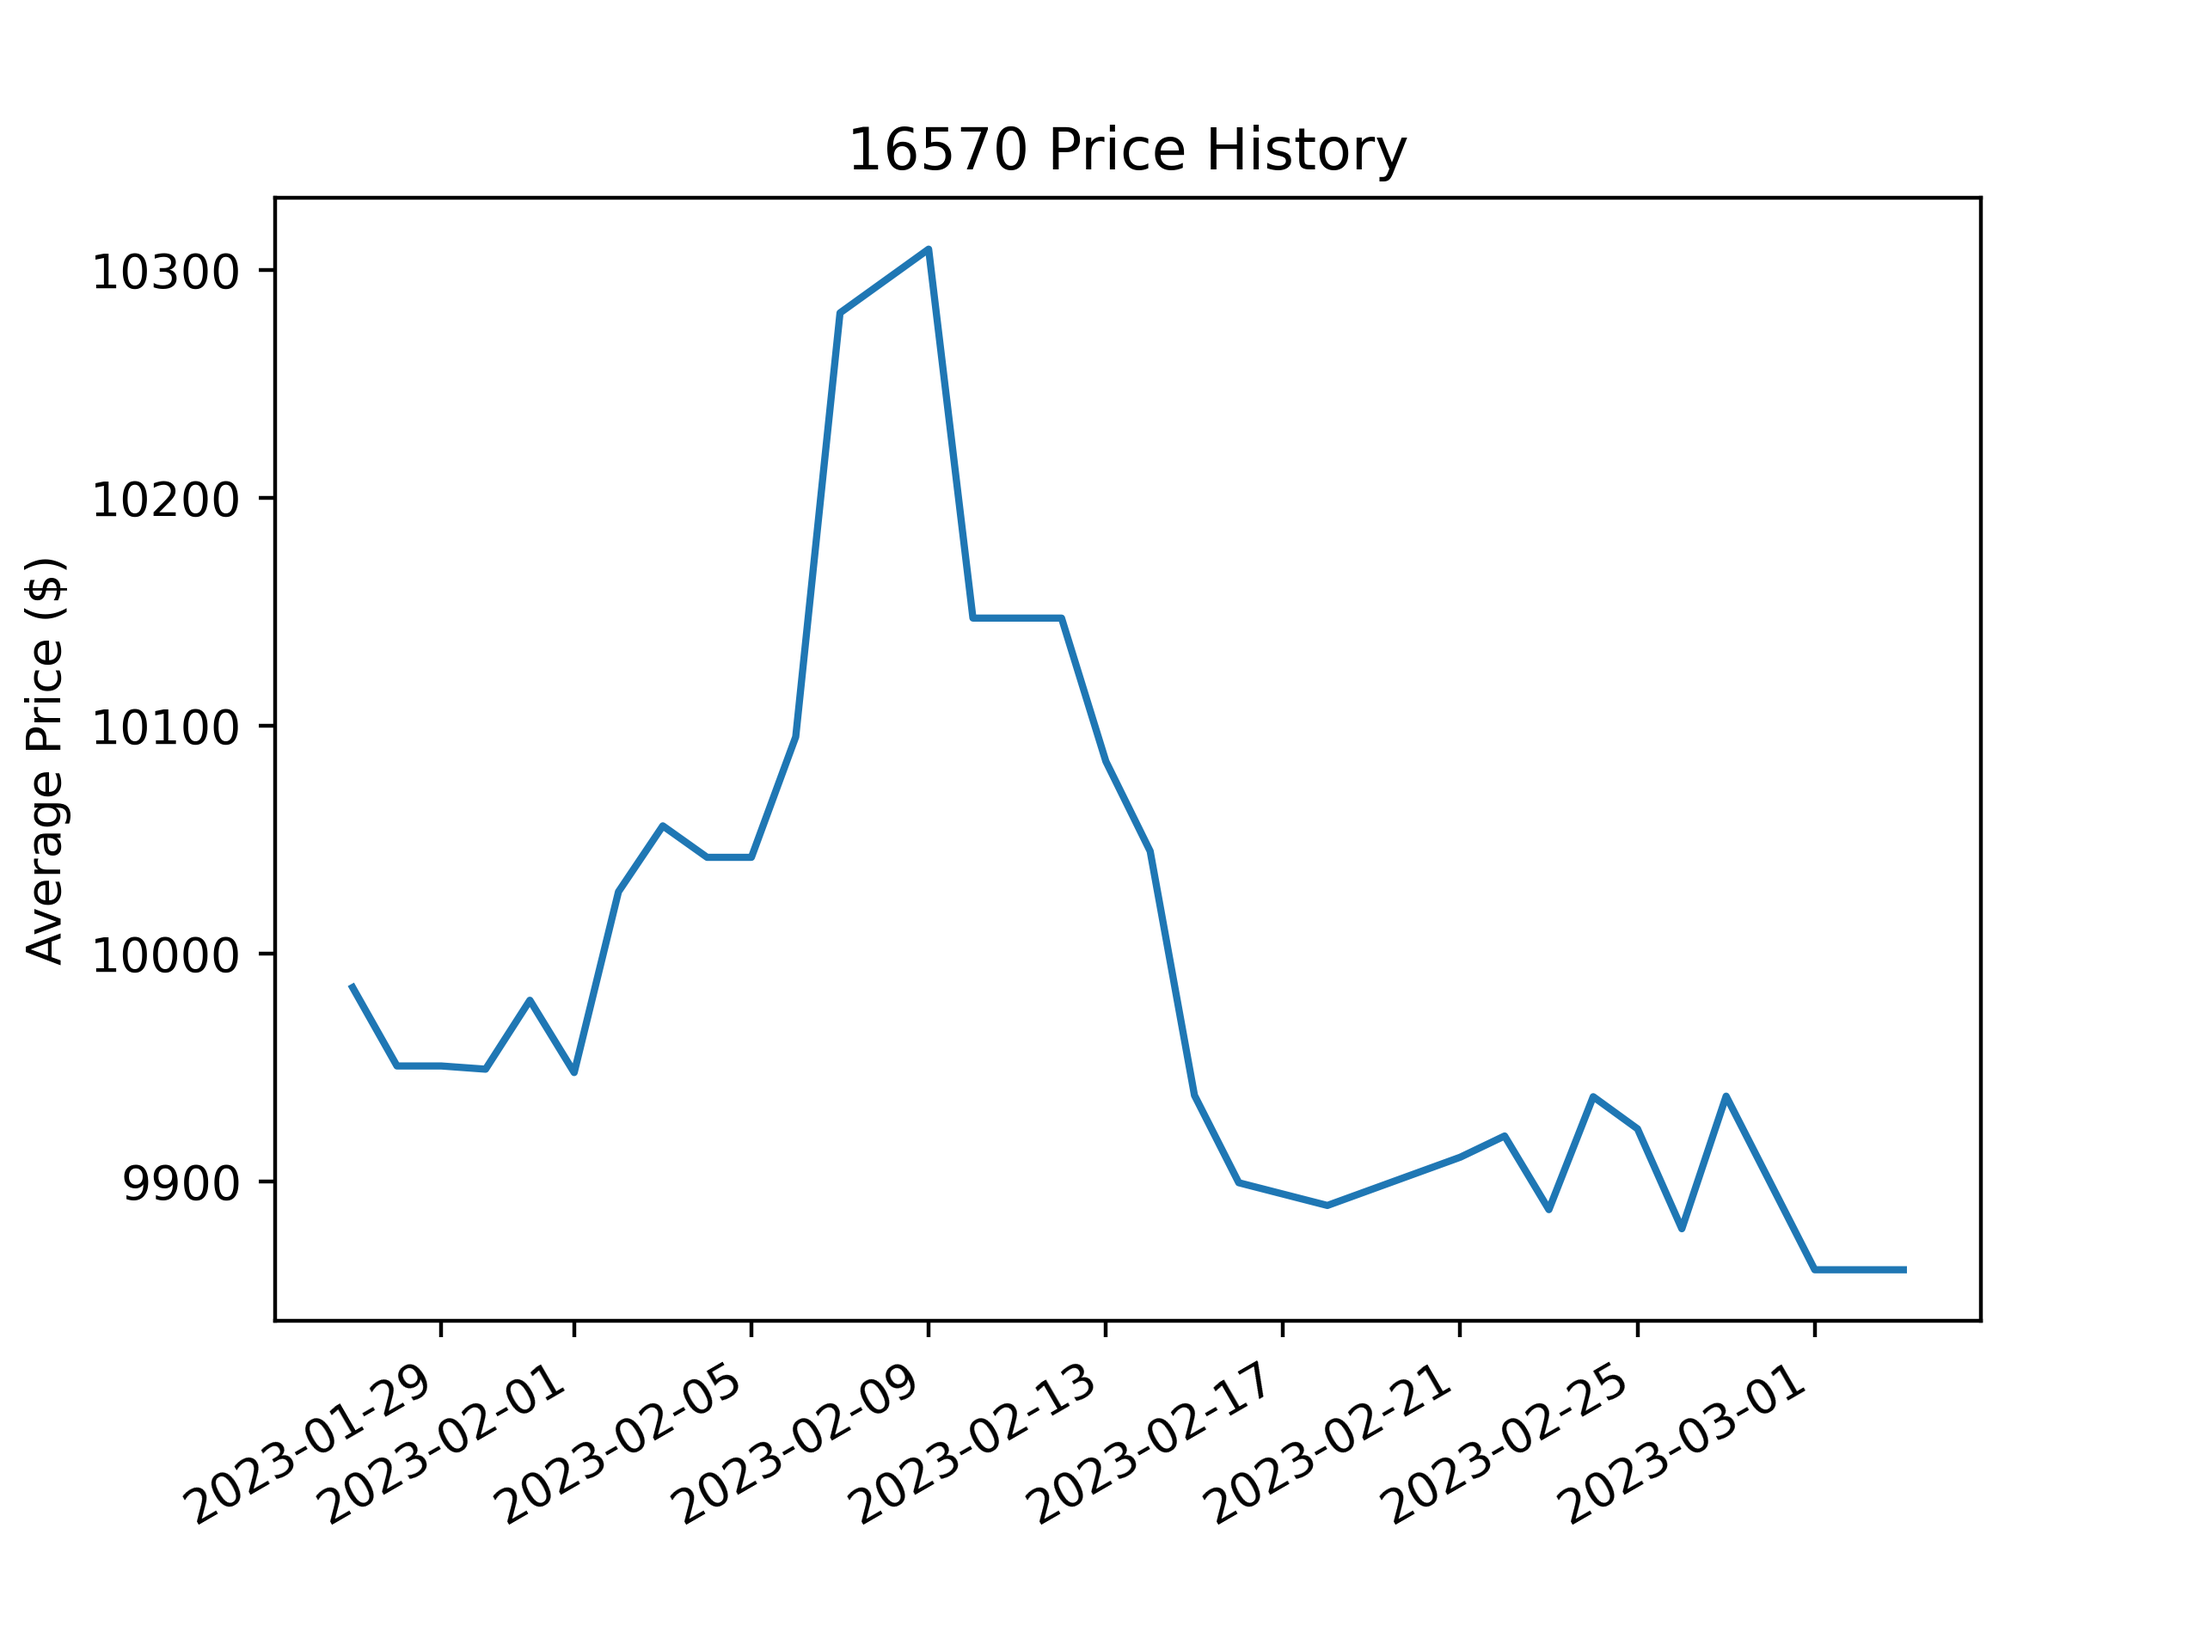
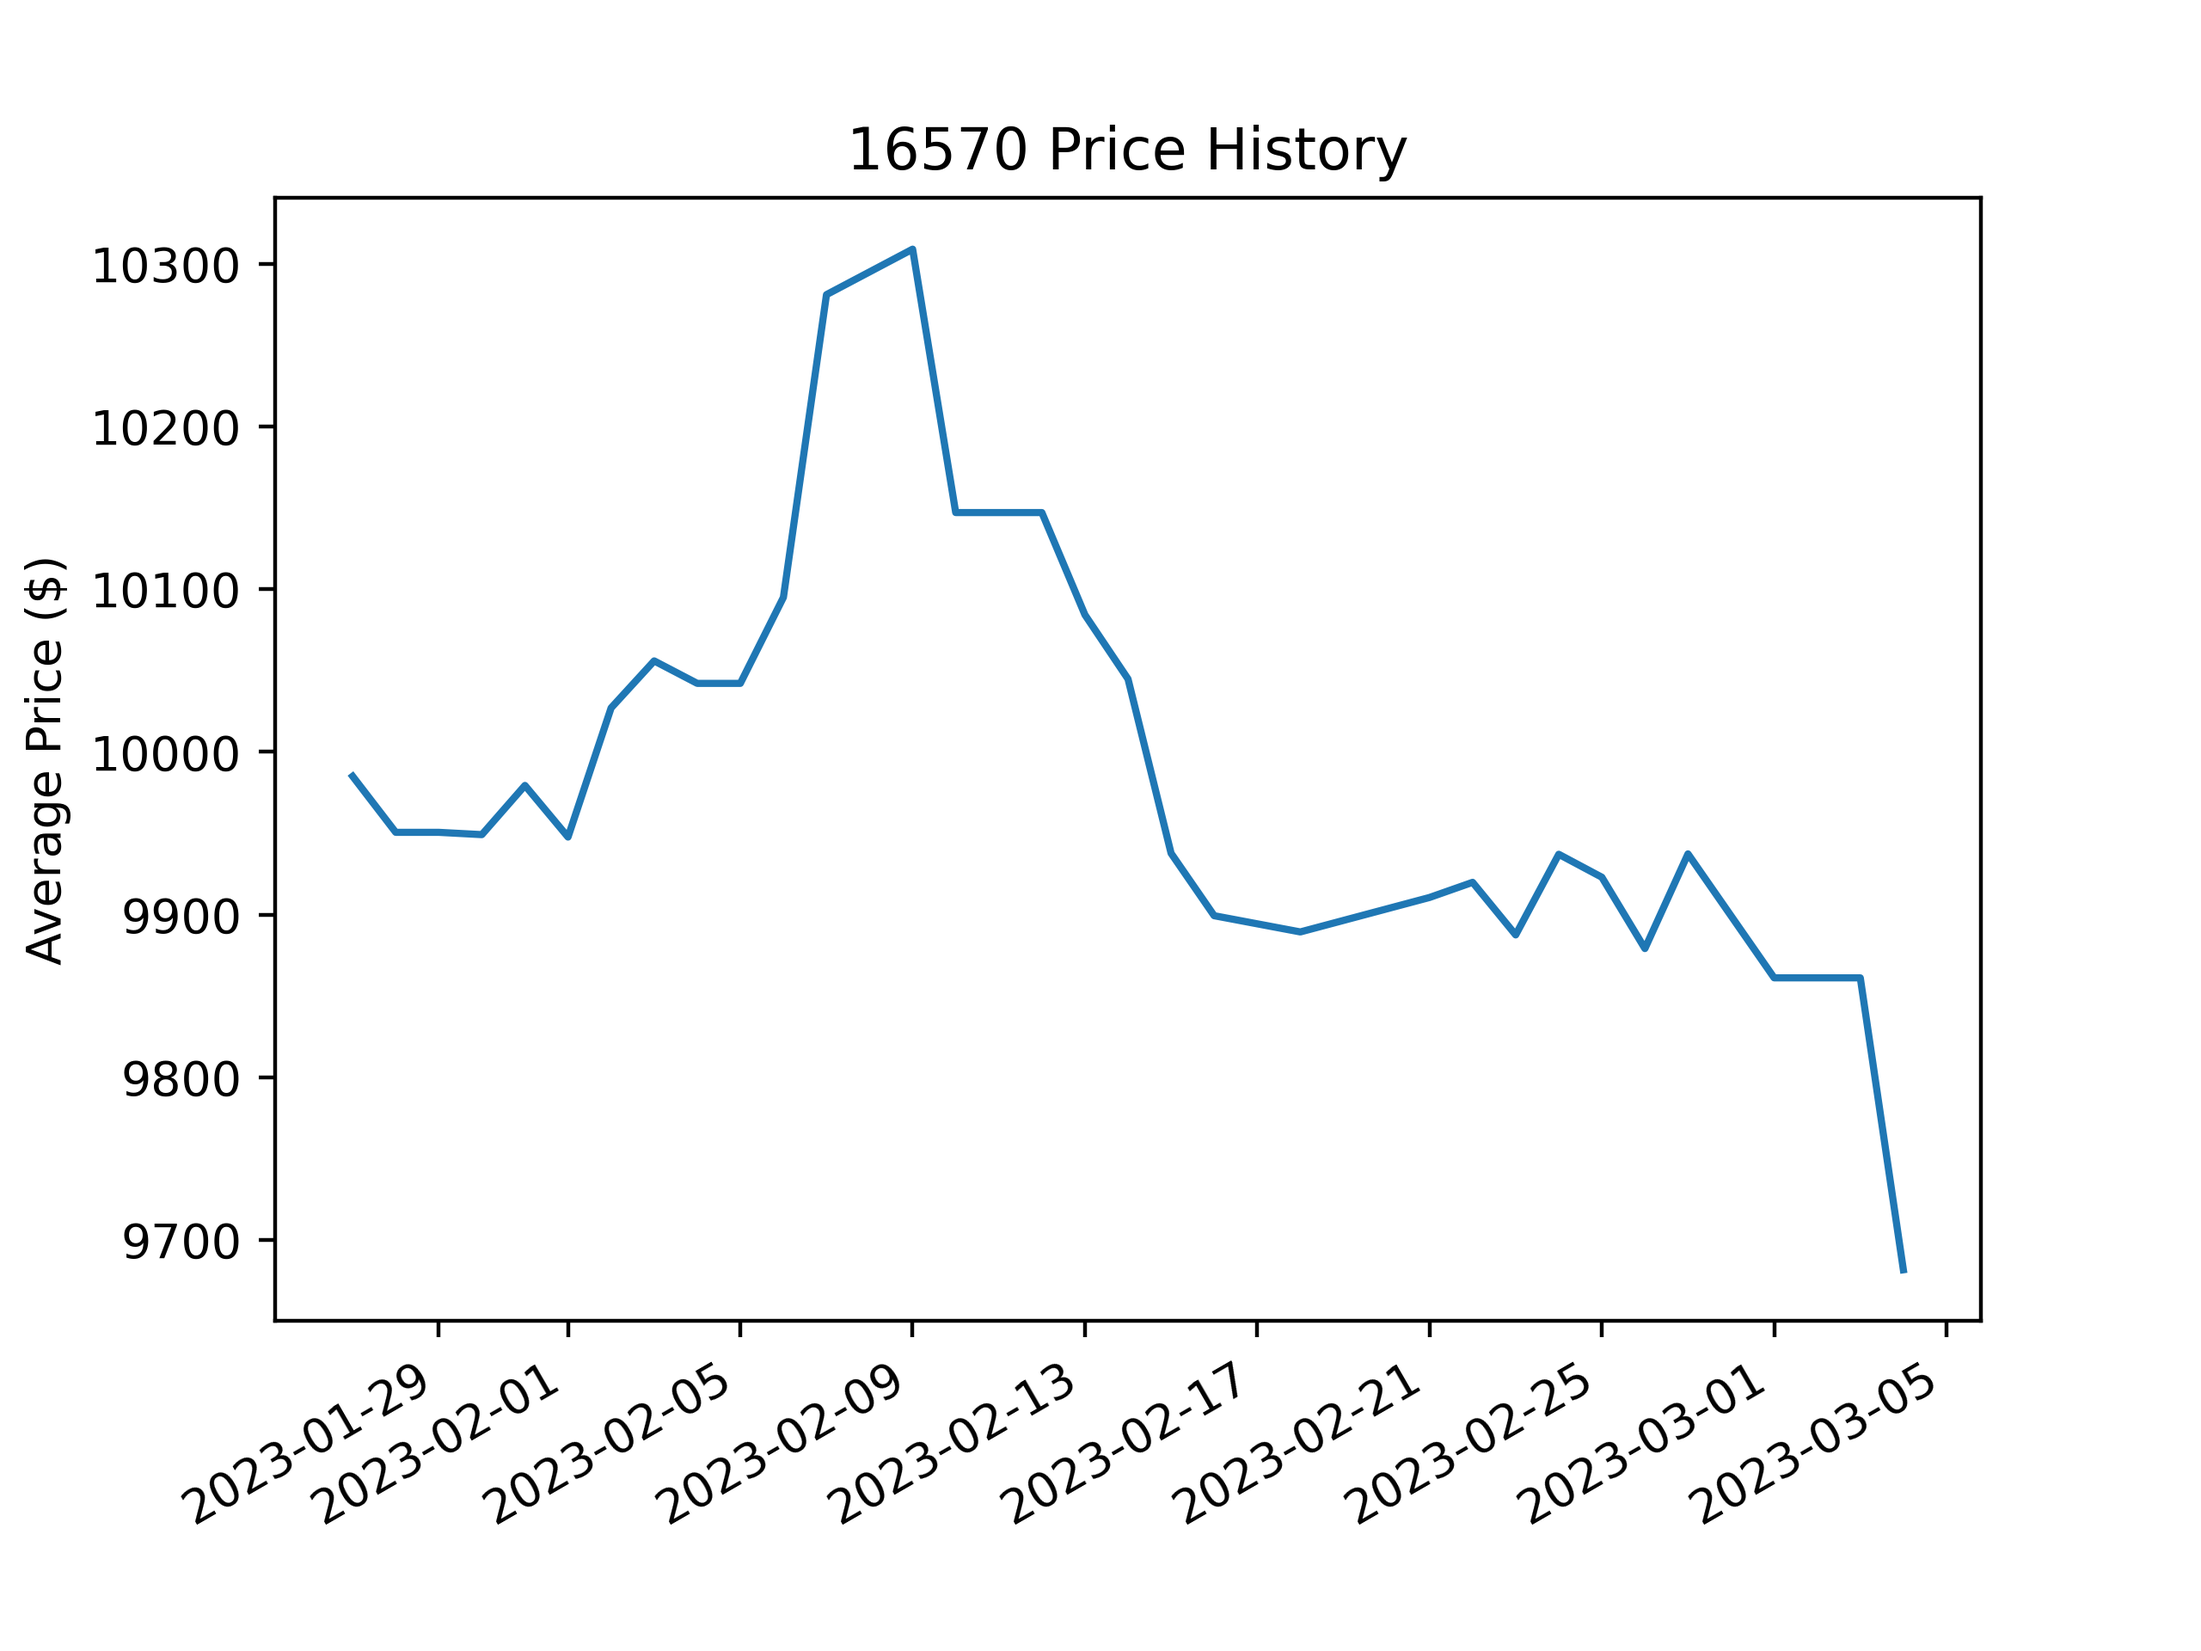
today's prices

diff --git a/all-prices/16570.html b/all-prices/16570.html
@@ -1,1 +1,1 @@
-<!DOCTYPE html><html><body><h1>All listings sorted in ascending order by price</h1><div> <a href="https://www.crownandcaliber.com/products/rolex-explorer-ii-16570-10-10-rol-s1rugm" target="_blank" rel="noopener noreferrer">$8275</a> </div><div> <a href="https://www.bobswatches.com//rolex-explorer-ii-16570-polar-dial.html" target="_blank" rel="noopener noreferrer">$8695</a> </div><div> <a href="https://www.watchfinder.com/Rolex/Explorer II/16570/1780/item/230008" target="_blank" rel="noopener noreferrer">$8765</a> </div><div> <a href="https://www.watchfinder.com/Rolex/Explorer II/16570/1780/item/236074" target="_blank" rel="noopener noreferrer">$8885</a> </div><div> <a href="https://www.watchfinder.com/Rolex/Explorer II/16570/1780/item/230573" target="_blank" rel="noopener noreferrer">$8910</a> </div><div> <a href="https://www.thewatchbox.com/shop/4777322.html" target="_blank" rel="noopener noreferrer">$8950</a> </div><div> <a href="https://www.crownandcaliber.com/products/rolex-explorer-ii-16570-10-10-rol-be483x" target="_blank" rel="noopener noreferrer">$9000</a> </div><div> <a href="https://www.crownandcaliber.com/products/rolex-explorer-ii-16570-10-10-rol-t6d7yb" target="_blank" rel="noopener noreferrer">$9000</a> </div><div> <a href="https://www.watchfinder.com/Rolex/Explorer II/16570/1780/item/232242" target="_blank" rel="noopener noreferrer">$9050</a> </div><div> <a href="https://www.crownandcaliber.com/products/rolex-explorer-ii-16570-10-10-rol-rcg6ap" target="_blank" rel="noopener noreferrer">$9150</a> </div><div> <a href="https://www.thewatchbox.com/shop/4652947.html" target="_blank" rel="noopener noreferrer">$9450</a> </div><div> <a href="https://www.crownandcaliber.com/products/rolex-explorer-ii-16570-10-10-rol-40mq2n" target="_blank" rel="noopener noreferrer">$9600</a> </div><div> <a href="https://aiswatches.com/rolex-polar-explorer-ii-16570-p-serial-white-dial-box-papers-rsc-serviced/" target="_blank" rel="noopener noreferrer">$9775.0</a> </div><div> <a href="https://aiswatches.com/rolex-polar-explorer-ii-16570-y-serial-white-dial-box-paper-1/" target="_blank" rel="noopener noreferrer">$9775.0</a> </div><div> <a href="https://www.watchfinder.com/Rolex/Explorer II/16570/1780/item/231382" target="_blank" rel="noopener noreferrer">$9830</a> </div><div> <a href="https://mandbwatches.com/product/rolex-explorer-ii-40mm-16570-stainless-steel-polar-white-dial-w-papers-unpolished/" target="_blank" rel="noopener noreferrer">$9950.0</a> </div><div> <a href="https://www.watchfinder.com/Rolex/Explorer II/16570/1780/item/233065" target="_blank" rel="noopener noreferrer">$10175</a> </div><div> <a href="https://www.watchfinder.com/Rolex/Explorer II/16570/1780/item/240103" target="_blank" rel="noopener noreferrer">$10310</a> </div><div> <a href="https://www.watchfinder.com/Rolex/Explorer II/16570/1780/item/230050" target="_blank" rel="noopener noreferrer">$10320</a> </div><div> <a href="https://www.watchfinder.com/Rolex/Explorer II/16570/1780/item/239520" target="_blank" rel="noopener noreferrer">$10660</a> </div><div> <a href="https://www.watchfinder.com/Rolex/Explorer II/16570/1780/item/216068" target="_blank" rel="noopener noreferrer">$10660</a> </div><div> <a href="https://www.watchfinder.com/Rolex/Explorer II/16570/1780/item/231123" target="_blank" rel="noopener noreferrer">$10690</a> </div><div> <a href="https://www.watchfinder.com/Rolex/Explorer II/16570/1780/item/235967" target="_blank" rel="noopener noreferrer">$10855</a> </div><div> <a href="https://www.bobswatches.com//rolex-explorer-ii-16570-white-dial-watch.html" target="_blank" rel="noopener noreferrer">$10895</a> </div><div> <a href="https://aiswatches.com/rolex-polar-explorer-ii-16570-v-serial-white-dial-3186-movement-box-papers/" target="_blank" rel="noopener noreferrer">$10975.0</a> </div><div> <a href="https://aiswatches.com/rolex-polar-explorer-ii-16570-m-serial-white-dial-3186-movement-box-papers/" target="_blank" rel="noopener noreferrer">$10975.0</a> </div><div> <a href="https://davidsw.com/shop/watch/rolex/rolex-16570-explorer-ii-with-white-dial-86/" target="_blank" rel="noopener noreferrer">$12675.0</a> </div></body></html>
+<!DOCTYPE html><html><body><h1>All listings sorted in ascending order by price</h1><div> <a href="https://www.crownandcaliber.com/products/rolex-explorer-ii-16570-10-10-rol-s1rugm" target="_blank" rel="noopener noreferrer">$8275</a> </div><div> <a href="https://www.bobswatches.com//rolex-explorer-ii-16570-polar-dial.html" target="_blank" rel="noopener noreferrer">$8695</a> </div><div> <a href="https://www.watchfinder.com/Rolex/Explorer II/16570/1780/item/230008" target="_blank" rel="noopener noreferrer">$8765</a> </div><div> <a href="https://www.watchfinder.com/Rolex/Explorer II/16570/1780/item/236074" target="_blank" rel="noopener noreferrer">$8885</a> </div><div> <a href="https://www.watchfinder.com/Rolex/Explorer II/16570/1780/item/230573" target="_blank" rel="noopener noreferrer">$8910</a> </div><div> <a href="https://www.thewatchbox.com/shop/4777322.html" target="_blank" rel="noopener noreferrer">$8950</a> </div><div> <a href="https://www.crownandcaliber.com/products/rolex-explorer-ii-16570-10-10-rol-be483x" target="_blank" rel="noopener noreferrer">$9000</a> </div><div> <a href="https://www.crownandcaliber.com/products/rolex-explorer-ii-16570-10-10-rol-t6d7yb" target="_blank" rel="noopener noreferrer">$9000</a> </div><div> <a href="https://www.watchfinder.com/Rolex/Explorer II/16570/1780/item/232242" target="_blank" rel="noopener noreferrer">$9050</a> </div><div> <a href="https://www.crownandcaliber.com/products/rolex-explorer-ii-16570-10-10-rol-rcg6ap" target="_blank" rel="noopener noreferrer">$9150</a> </div><div> <a href="https://www.thewatchbox.com/shop/4652947.html" target="_blank" rel="noopener noreferrer">$9450</a> </div><div> <a href="https://www.crownandcaliber.com/products/rolex-explorer-ii-16570-10-10-rol-40mq2n" target="_blank" rel="noopener noreferrer">$9600</a> </div><div> <a href="https://aiswatches.com/rolex-polar-explorer-ii-16570-p-serial-white-dial-box-papers-rsc-serviced/" target="_blank" rel="noopener noreferrer">$9775.0</a> </div><div> <a href="https://aiswatches.com/rolex-polar-explorer-ii-16570-y-serial-white-dial-box-paper-1/" target="_blank" rel="noopener noreferrer">$9775.0</a> </div><div> <a href="https://www.watchfinder.com/Rolex/Explorer II/16570/1780/item/231382" target="_blank" rel="noopener noreferrer">$9830</a> </div><div> <a href="https://mandbwatches.com/product/rolex-explorer-ii-40mm-16570-stainless-steel-polar-white-dial-w-papers-unpolished/" target="_blank" rel="noopener noreferrer">$9950.0</a> </div><div> <a href="https://www.watchfinder.com/Rolex/Explorer II/16570/1780/item/233065" target="_blank" rel="noopener noreferrer">$10175</a> </div><div> <a href="https://www.watchfinder.com/Rolex/Explorer II/16570/1780/item/240103" target="_blank" rel="noopener noreferrer">$10310</a> </div><div> <a href="https://www.watchfinder.com/Rolex/Explorer II/16570/1780/item/239520" target="_blank" rel="noopener noreferrer">$10660</a> </div><div> <a href="https://www.watchfinder.com/Rolex/Explorer II/16570/1780/item/216068" target="_blank" rel="noopener noreferrer">$10660</a> </div><div> <a href="https://www.watchfinder.com/Rolex/Explorer II/16570/1780/item/231123" target="_blank" rel="noopener noreferrer">$10690</a> </div><div> <a href="https://www.watchfinder.com/Rolex/Explorer II/16570/1780/item/235967" target="_blank" rel="noopener noreferrer">$10855</a> </div><div> <a href="https://aiswatches.com/rolex-polar-explorer-ii-16570-v-serial-white-dial-3186-movement-box-papers/" target="_blank" rel="noopener noreferrer">$10975.0</a> </div><div> <a href="https://aiswatches.com/rolex-polar-explorer-ii-16570-m-serial-white-dial-3186-movement-box-papers/" target="_blank" rel="noopener noreferrer">$10975.0</a> </div></body></html>
